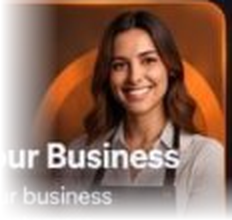
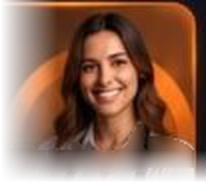
image add in price page.

diff --git a/src/components/HowDoYouWantToUse/HowDoYouWantToUse.tsx b/src/components/HowDoYouWantToUse/HowDoYouWantToUse.tsx
@@ -31,7 +31,7 @@ const personaCards: PersonaGoalCard[] = [
     theme: 'blue',
     title: 'Find Work',
     subtitle: 'Jobs, gigs and opportunities',
-    avatar: '/images/persona_find_work_v2.png',
+    avatar: '/images/persona_find_work_clean.png',
     features: [
       'Browse job opportunities',
       'Find local and remote work',
@@ -47,7 +47,7 @@ const personaCards: PersonaGoalCard[] = [
     theme: 'green',
     title: 'Hire Talent',
     subtitle: 'Find people with the skills you need',
-    avatar: '/images/persona_hire_talent_v2.png',
+    avatar: '/images/persona_hire_talent_clean.png',
     features: [
       'Post jobs and gigs',
       'Find skilled talent',
@@ -63,7 +63,7 @@ const personaCards: PersonaGoalCard[] = [
     theme: 'purple',
     title: 'Promote Yourself',
     subtitle: 'Showcase your skills and services',
-    avatar: '/images/persona_promote_self_v2.png',
+    avatar: '/images/persona_promote_self_clean.png',
     features: [
       'Create a standout profile',
       'Highlight your skills & services',
@@ -79,7 +79,7 @@ const personaCards: PersonaGoalCard[] = [
     theme: 'orange',
     title: 'Grow Your Business',
     subtitle: 'Promote your business and reach customers',
-    avatar: '/images/persona_grow_business_v2.png',
+    avatar: '/images/persona_grow_business_clean.png',
     features: [
       'Create a business profile',
       'Promote your services',
